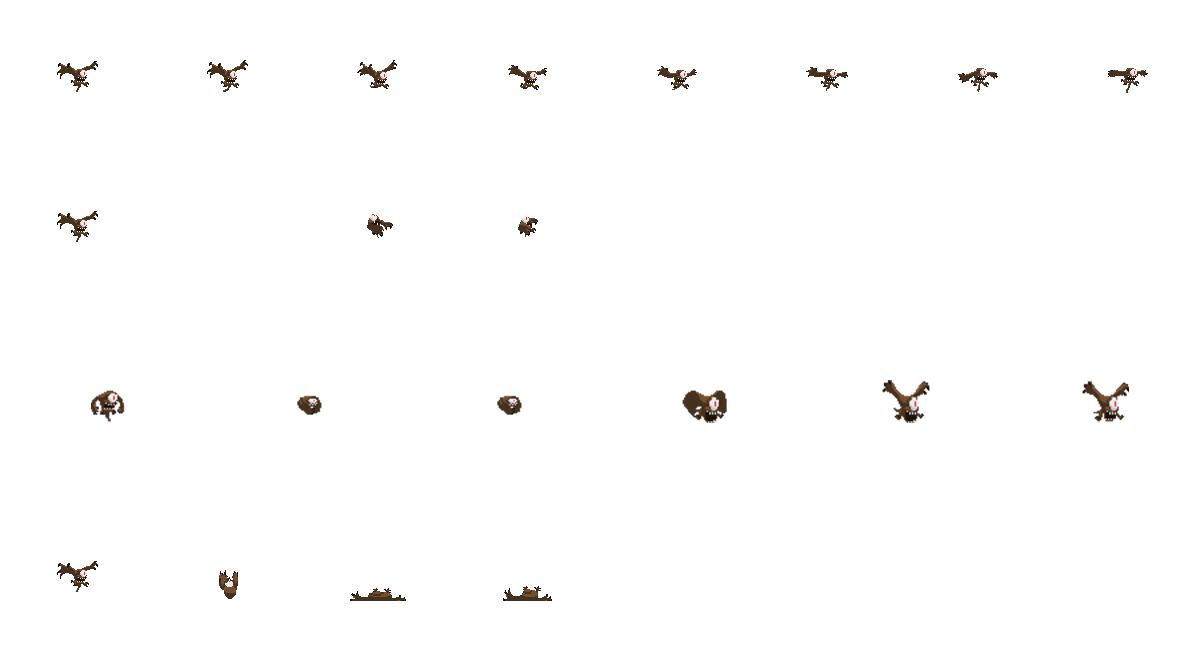
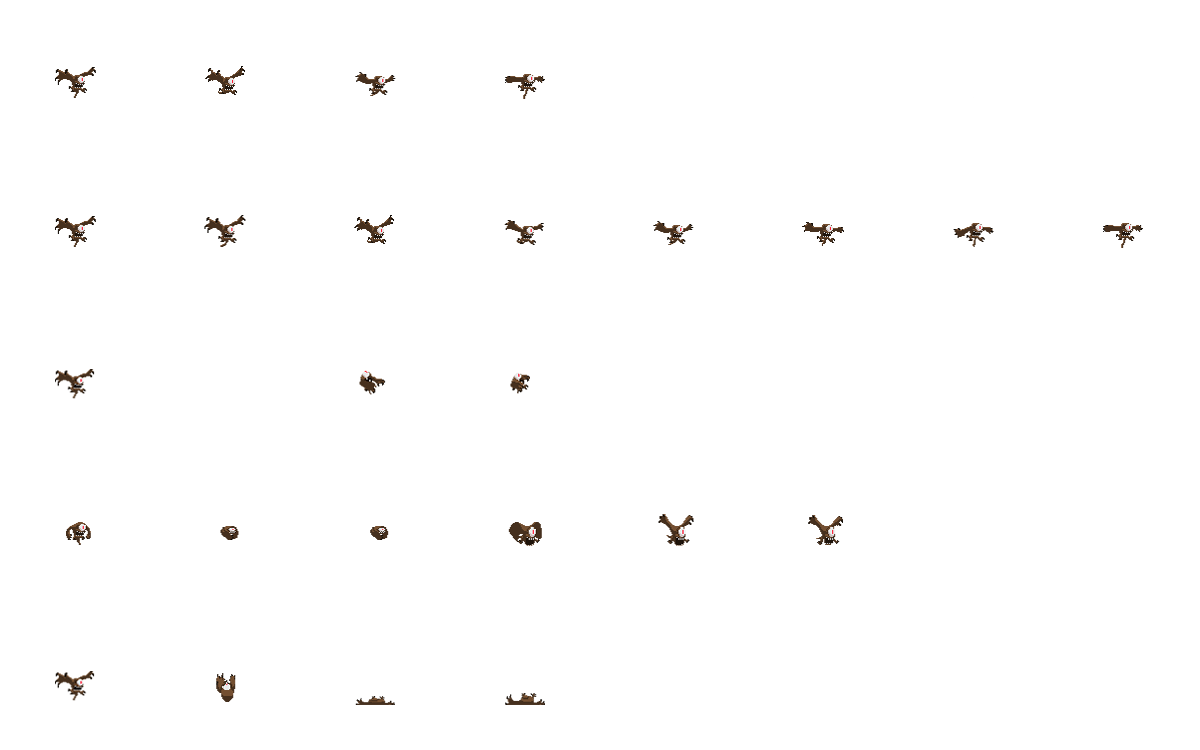
[Varios] Fix flying eye

diff --git a/classes/Enemy.cpp b/classes/Enemy.cpp
@@ -34,6 +34,10 @@ void Enemy::setTexture(String directory) {
     this->sprite.setScale(scaleFactor, scaleFactor);
 }
 
+void Enemy::setScaleFactor(float sf) {
+    scaleFactor = sf;
+}
+
 void Enemy::update() {
 
     updateMovement();
@@ -48,7 +52,7 @@ void Enemy::updateAnimations() {
             currentFrame.top = 60.f;
             currentFrame.left += 150.f;
 
-            if (currentFrame.left >= 505.f)
+            if (currentFrame.left >= 540.f)
                 currentFrame.left = 55.f;
 
             // Una vez haya puedo un nuevo frame, que reinicie el timer para esperar otros 0.5s
@@ -59,6 +63,23 @@ void Enemy::updateAnimations() {
     else if (animState == ENEMY_ANIMATION_STATES::TOOKDAMAGE) {
         if (animationTimer.getElapsedTime().asSeconds() >= 0.15f) {
             currentFrame.top = 360.f; // 60 + 150 * linea en la que esta (en este caso 2)
+            currentFrame.left += 150.f;
+
+            // Cuando llega al final de la sheet vuelve al estado inactivo
+            if (currentFrame.left >= 540.f) {
+                isInvincible = false;
+                currentFrame.left = 55.f;
+                animState = ENEMY_ANIMATION_STATES::INACTIVE;
+            }
+
+            // Una vez haya puedo un nuevo frame, que reinicie el timer para esperar otros 0.5s
+            animationTimer.restart();
+            sprite.setTextureRect(currentFrame);
+        }
+    }
+    else if (animState == ENEMY_ANIMATION_STATES::DEATH) {
+        if (animationTimer.getElapsedTime().asSeconds() >= 0.15f) {
+            currentFrame.top = 660.f; // 60 + 150 * linea en la que esta (en este caso 2)
             currentFrame.left += 150.f;
 
             // Cuando llega al final de la sheet vuelve al estado inactivo
@@ -119,9 +140,12 @@ void Enemy::damage() {
 
     // Luego de 5 balas, el enemigo muere
     currentHp -= 2;
+    std::cout << currentHp << "\n";
     if (currentHp <= 0) {
         // Muere
         // Aca iria la animacion de muerte, la destruccion del objeto, contadorEnemigosLvl--;
+        currentHp = maxHp;
+        animState = ENEMY_ANIMATION_STATES::DEATH;
     }
 }
 

diff --git a/classes/Level.cpp b/classes/Level.cpp
@@ -49,8 +49,10 @@ void Level::draw(RenderWindow &window) {
 }
 
 void Level::update() {
+    // Actualizan los enemigos
     for (auto &e : enemies) {
         e.update();
+        e.setEnemyLookingRight(true);
     }
 }
 
@@ -68,6 +70,10 @@ void Level::spawnEnemies() {
 //    }
 
     for (int i = 0; i < totalFlyingEye; i++) {
-        enemies.emplace_back("../assets/enemies/Flying Eye/flyingEyeSheet.png", Vector2f(250 + 110 * i, 270));
+        enemies.emplace_back("../assets/enemies/Flying Eye/flyingEyeSheett.png", Vector2f(250 + 110 * i, 270));
+    }
+    for(auto &e : enemies) {
+        e.setEnemyLookingRight(true);
+        e.setScaleFactor(2);
     }
 }

diff --git a/classes/CheckForCollisions.cpp b/classes/CheckForCollisions.cpp
@@ -38,4 +38,11 @@ void Engine::checkForCollisions() {
         }
 
     }
+
+    for (auto &e: level.enemies) {
+        if (player.getGlobalBounds().intersects(e.getSprite().getGlobalBounds())) {
+            // Si el player choca con alguno de los enemigos
+
+        }
+    }
 }

diff --git a/classes/Level.h b/classes/Level.h
@@ -7,8 +7,6 @@
 
 class Level {
 private:
-    // Jefe boss
-
     // Fondo
     // Mapa mapa; Fdlta crear la clase, pero por ahora utilizaremos un fondo estatico
     Sprite bkgSprite;

diff --git a/classes/Enemy.h b/classes/Enemy.h
@@ -68,6 +68,8 @@ public:
     RectangleShape getEnemyHitbox();
 
     void setEnemyLookingRight(bool lookRight);
+
+    void setScaleFactor(float scaleFactor);
 };
 
 
